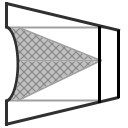
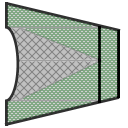
SecondBomb fixed some formating (newlines); improved images for bomb / bombCarrier

diff --git a/bombCarrier.js b/bombCarrier.js
@@ -9,7 +9,6 @@ class BombCarrier extends Weapon
 
     update(combatantGroup, onRoundHitCallback)
     {
-
         for (var droppedBombPair of this.droppedBombs)
         {
             var droppedBomb = droppedBombPair[0]
@@ -24,7 +23,6 @@ class BombCarrier extends Weapon
         {
             this.droppedBombs = this.droppedBombs.filter(x => !x[0].removeBomb)
         }
-
     }
 
     fire(xFrom, yFrom, xTo, yTo)
@@ -84,6 +82,8 @@ class BombCarrier extends Weapon
     {
         if (droppedBomb.hasOwnProperty('explosionAnimation'))
         {
+            // Currently the isPlaying property is used to define when the impact of the bomb
+            // is applied to the combatants
             if (!droppedBomb.explosionAnimation.anims.isPlaying)
             {
                 for (var combatantSprite of combatantGroup.children.entries)

diff --git a/hq.js b/hq.js
@@ -65,9 +65,7 @@ class Hq
             secondaryGunName = player.secondaryGun.type
             
             var ammoOwnedByPlayer = PlayerStats.getAllAmmoOwnedByPlayer()
-
-           this.setAmmoSlotImage(ammoOwnedByPlayer);
-
+            this.setAmmoSlotImage(ammoOwnedByPlayer);
             this.setAvailableAmmoImages(ammoOwnedByPlayer, player);
         }
         
